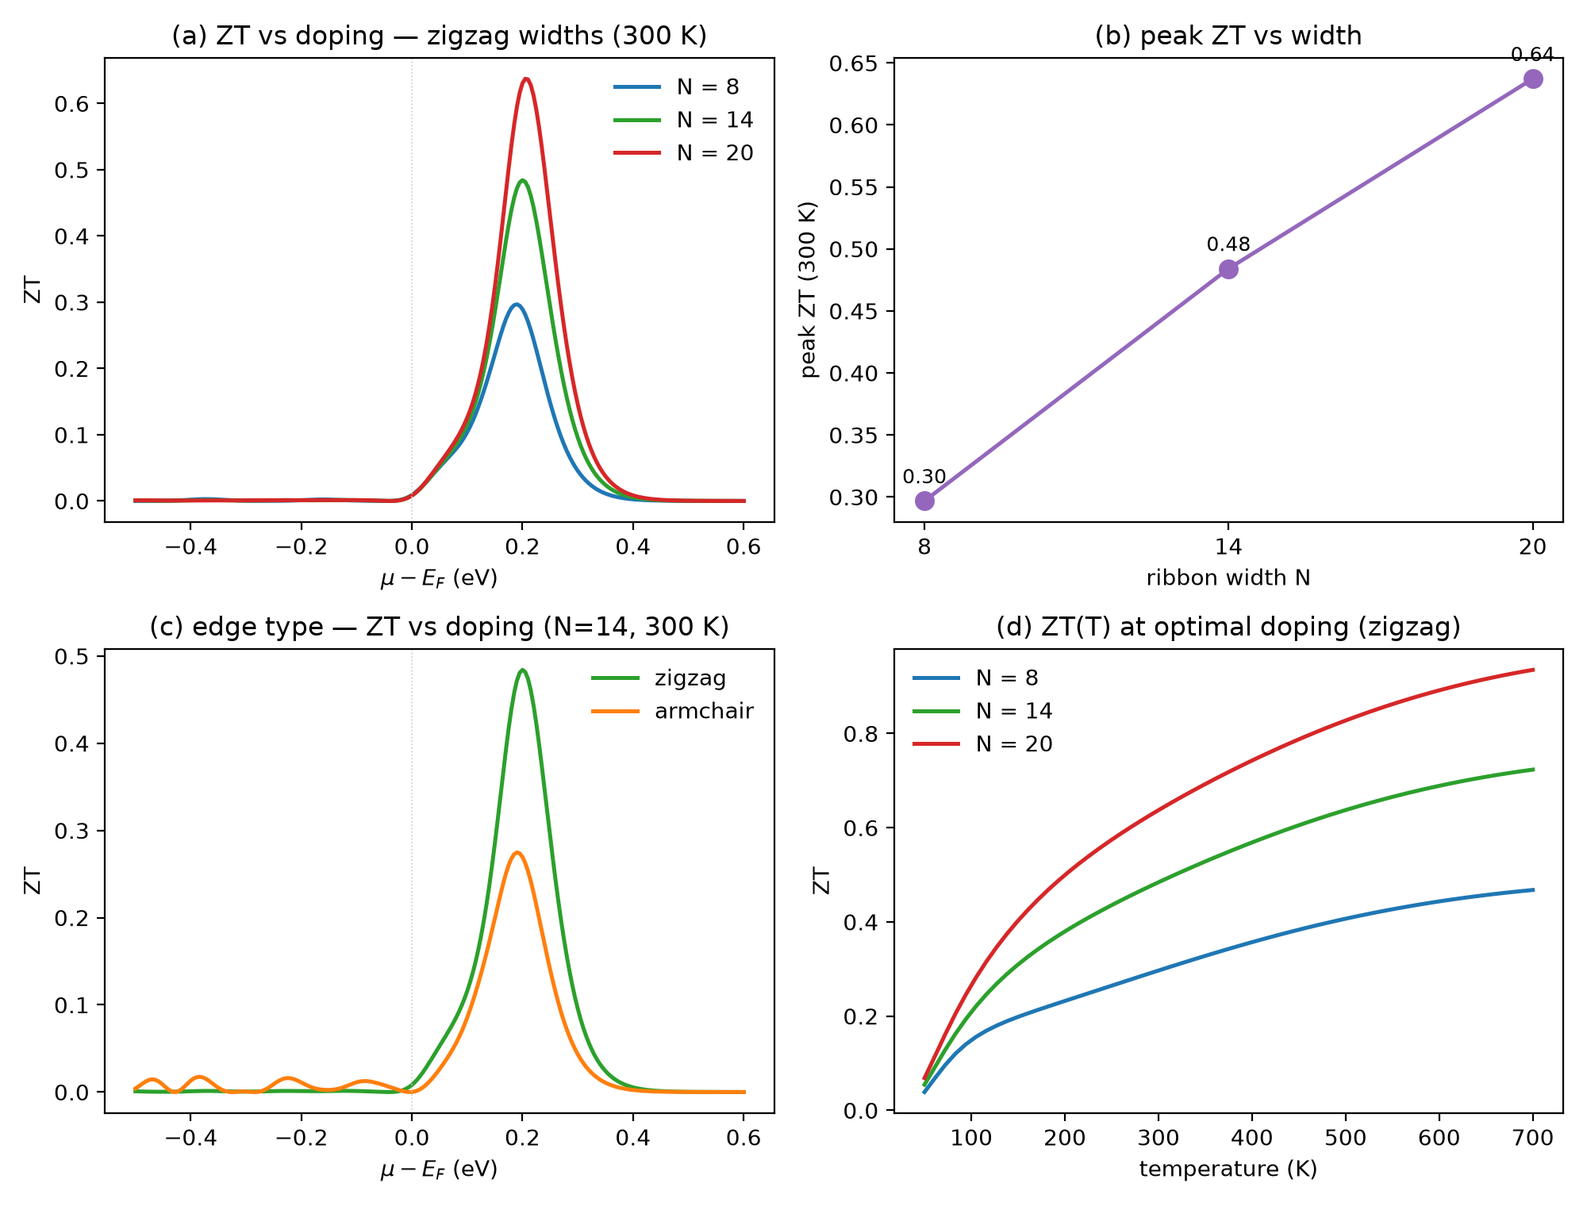
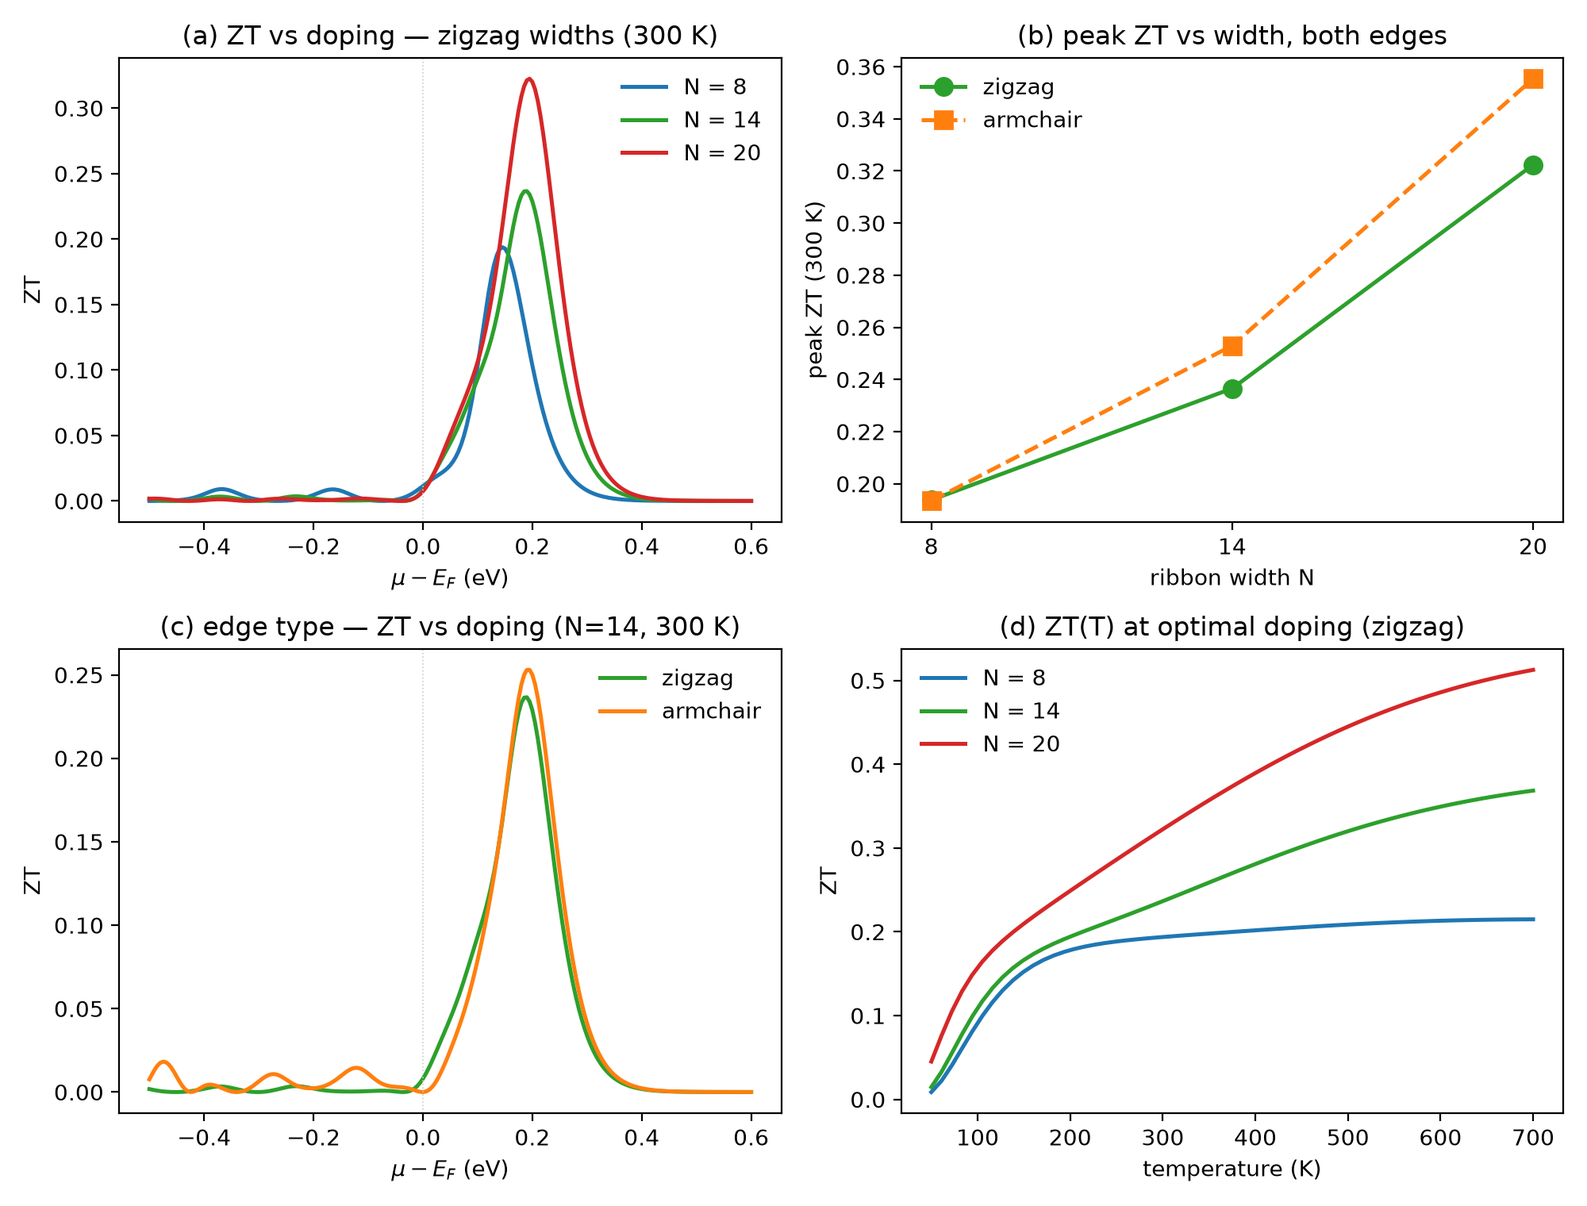
Fix width convention: N = atomic rows; rerun all, correct edge comparison
build_ribbon_sk 'width' now = N (Cr+N atomic rows across), matching the
manuscript's DMRG convention, verified exact for both edges. Reran Figs 3-8 +
sensitivity + convergence + verify with the corrected geometry.

Key corrections (edge comparison was confounded by unequal widths):
- headline peak ZT (zigzag N=14, 300K) 0.48 -> 0.23
- edges COMPARABLE at matched N (zigzag 0.19/0.24/0.32 vs armchair
  0.19/0.25/0.36 for N=8/14/20); old 'zigzag ~2x armchair' was a width artifact
- fig_ribbons now shows true N=14; FM edge moments both point up
- manuscript abstract/results/table/conclusions/captions + notebook updated

All checks still pass (sensitivity +/-5%, convergence, Wiedemann-Franz,
monolayer<->ribbon consistency). Manuscript 16 pp, 0 undefined refs.

diff --git a/scripts/fig_ribbons.py b/scripts/fig_ribbons.py
@@ -1,9 +1,9 @@
 #!/usr/bin/env python
-"""Intro figure: the hexagonal CrN nanoribbons we compute (zigzag + armchair).
+"""Intro figure: the hexagonal CrN nanoribbons we compute, at their true width N=14.
 
-Clean rectangular strips rendered from the honeycomb lattice (same geometry as the transport
-calculations), with Cr/N sublattices, ferromagnetic edge moments, semi-infinite leads and the
-transport direction. Designed as an inviting overview figure for the introduction.
+Rendered from the SAME honeycomb lattice and row convention as the transport code
+(crnte.ribbon_sk): N = number of Cr+N atomic rows across the ribbon. Clean rectangular strips,
+Cr/N sublattices, ferromagnetic edge moments, semi-infinite leads and transport direction.
 """
 import os
 import sys
@@ -16,16 +16,18 @@ from matplotlib.patches import FancyArrowPatch
 
 ROOT = os.path.dirname(os.path.dirname(os.path.abspath(__file__)))
 sys.path.insert(0, ROOT)
+from crnte.monolayer_sk import SKParams  # noqa: E402
+from crnte.ribbon_sk import _transverse_bound  # noqa: E402
+
 FIGDIR = os.path.join(ROOT, "figures")
 os.makedirs(FIGDIR, exist_ok=True)
 
-A = 3.258
+A = SKParams().a
 D = A / np.sqrt(3.0)
-A1 = D * np.array([1.5, np.sqrt(3.0) / 2])
-A2 = D * np.array([1.5, -np.sqrt(3.0) / 2])
-DELTAS = [D * np.array([1.0, 0.0]),
-          D * np.array([-0.5, np.sqrt(3.0) / 2]),
-          D * np.array([-0.5, -np.sqrt(3.0) / 2])]
+PV0 = np.array([A, 0.0])
+PV1 = np.array([A / 2.0, A * np.sqrt(3.0) / 2.0])
+N_BASIS = np.array([0.0, D])
+NROWS = 14
 
 CR_COLOR = "#2f6fb3"
 N_COLOR = "#d3d7db"
@@ -33,87 +35,93 @@ BOND_COLOR = "#5b5b5b"
 MOM_COLOR = "#c0392b"
 
 
-def _rot(theta):
-    c, s = np.cos(theta), np.sin(theta)
-    return np.array([[c, -s], [s, c]])
-
-
-def honeycomb(theta=0.0):
-    R = _rot(theta)
+def _lattice_atoms(nmax=40):
     cr, nn = [], []
-    for n in range(-22, 26):
-        for m in range(-26, 24):
-            base = n * A1 + m * A2
-            cr.append(R @ base)
-            nn.append(R @ (base + DELTAS[0]))
+    for n in range(-nmax, nmax + 1):
+        for m in range(-nmax, nmax + 1):
+            base = n * PV0 + m * PV1
+            cr.append(base)
+            nn.append(base + N_BASIS)
     return np.array(cr), np.array(nn)
 
 
-def _crop(pts, xl, yl, pad=0.05):
-    m = ((pts[:, 0] >= xl[0] - pad) & (pts[:, 0] <= xl[1] + pad) &
-         (pts[:, 1] >= yl[0] - pad) & (pts[:, 1] <= yl[1] + pad))
-    return pts[m]
+def ribbon_atoms(edge, n_rows, n_cells):
+    """Clean rectangular ribbon: exactly n_rows across, n_cells along transport. Horizontal."""
+    cr, nn = _lattice_atoms()
+    lo, hi = _transverse_bound(edge, n_rows, A)
+    if edge == "zigzag":               # transport x, transverse y
+        long_hi = n_cells * A
+        keep = lambda P: (lo <= P[:, 1]) & (P[:, 1] <= hi) & (P[:, 0] >= 0) & (P[:, 0] < long_hi)
+        crk, nnk = cr[keep(cr)], nn[keep(nn)]
+    else:                              # armchair: transport y, transverse x -> rotate to horizontal
+        long_hi = n_cells * A * np.sqrt(3.0)
+        keep = lambda P: (lo <= P[:, 0]) & (P[:, 0] <= hi) & (P[:, 1] >= 0) & (P[:, 1] < long_hi)
+        crk, nnk = cr[keep(cr)], nn[keep(nn)]
+        rot = np.array([[0.0, 1.0], [-1.0, 0.0]])       # rotate -90 deg -> transport along x
+        crk, nnk = crk @ rot.T, nnk @ rot.T
+    # recentre
+    allp = np.vstack([crk, nnk])
+    off = np.array([allp[:, 0].min(), (allp[:, 1].min() + allp[:, 1].max()) / 2])
+    return crk - off, nnk - off
 
 
-def draw_ribbon(ax, theta, xl, yl, title):
-    cr, nn = honeycomb(theta)
-    crc, nnc = _crop(cr, xl, yl), _crop(nn, xl, yl)
-    # bonds (both ends inside -> clean terminated edges)
-    for a in crc:
-        d = np.linalg.norm(nnc - a, axis=1)
-        for b in nnc[d < 1.15 * D]:
+def draw(ax, crk, nnk, title):
+    for a in crk:
+        d = np.linalg.norm(nnk - a, axis=1)
+        for b in nnk[d < 1.15 * D]:
             ax.plot([a[0], b[0]], [a[1], b[1]], color=BOND_COLOR, lw=1.5, zorder=2)
+    xmin, xmax = crk[:, 0].min(), crk[:, 0].max()
+    ymin, ymax = min(crk[:, 1].min(), nnk[:, 1].min()), max(crk[:, 1].max(), nnk[:, 1].max())
     # semi-infinite leads: faded ghost repeats of the end columns
-    span = xl[1] - xl[0]
-    for side, xedge in ((-1, xl[0]), (+1, xl[1])):
-        col_c = crc[np.abs(crc[:, 0] - xedge) < 1.7 * D]
-        col_n = nnc[np.abs(nnc[:, 0] - xedge) < 1.7 * D]
+    for side, xe in ((-1, xmin), (+1, xmax)):
+        cc = crk[np.abs(crk[:, 0] - xe) < 1.7 * D]
+        cn = nnk[np.abs(nnk[:, 0] - xe) < 1.7 * D]
         for k, al in ((1, 0.5), (2, 0.28), (3, 0.13)):
             sh = np.array([side * k * 3.0 * D, 0.0])
-            ax.scatter(*(col_n + sh).T, s=60, color=N_COLOR, edgecolors="none", alpha=al, zorder=1)
-            ax.scatter(*(col_c + sh).T, s=100, color=CR_COLOR, edgecolors="none", alpha=al, zorder=1)
-        ax.text(xedge + side * 3.1 * D, (yl[0] + yl[1]) / 2, "semi-infinite\nlead", fontsize=8.5,
+            ax.scatter(*(cn + sh).T, s=55, color=N_COLOR, edgecolors="none", alpha=al, zorder=1)
+            ax.scatter(*(cc + sh).T, s=95, color=CR_COLOR, edgecolors="none", alpha=al, zorder=1)
+        ax.text(xe + side * 3.1 * D, (ymin + ymax) / 2, "semi-infinite\nlead", fontsize=8.5,
                 color="0.45", ha="center", va="center")
-    # atoms
-    ax.scatter(nnc[:, 0], nnc[:, 1], s=80, color=N_COLOR, edgecolors="k", lw=0.5, zorder=3)
-    ax.scatter(crc[:, 0], crc[:, 1], s=125, color=CR_COLOR, edgecolors="k", lw=0.6, zorder=4)
-    # ferromagnetic edge moments on top & bottom edge Cr
-    ytop, ybot = crc[:, 1].max(), crc[:, 1].min()
-    for p in crc[np.abs(crc[:, 1] - ytop) < 0.1]:
-        ax.add_patch(FancyArrowPatch((p[0], p[1] + 0.2 * D), (p[0], p[1] + 1.15 * D),
-                                     arrowstyle="-|>", mutation_scale=11, color=MOM_COLOR, lw=1.8))
-    for p in crc[np.abs(crc[:, 1] - ybot) < 0.1]:
-        ax.add_patch(FancyArrowPatch((p[0], p[1] - 1.15 * D), (p[0], p[1] - 0.2 * D),
-                                     arrowstyle="-|>", mutation_scale=11, color=MOM_COLOR, lw=1.8))
-    # transport arrow + width bracket
-    yb = ybot - 2.1 * D
-    ax.add_patch(FancyArrowPatch((xl[0], yb), (xl[1], yb), arrowstyle="<->",
+    ax.scatter(nnk[:, 0], nnk[:, 1], s=70, color=N_COLOR, edgecolors="k", lw=0.5, zorder=3)
+    ax.scatter(crk[:, 0], crk[:, 1], s=105, color=CR_COLOR, edgecolors="k", lw=0.6, zorder=4)
+    # FM edge moments (all parallel, pointing up) on the outermost rows (top & bottom)
+    for yt in (ymax, ymin):
+        edge_atoms = np.vstack([crk, nnk])
+        outer = edge_atoms[np.abs(edge_atoms[:, 1] - yt) < 0.1]
+        for pt in outer[::2]:
+            y0 = pt[1] + 0.35 * D if yt == ymax else pt[1] - 1.35 * D
+            ax.add_patch(FancyArrowPatch((pt[0], y0), (pt[0], y0 + 1.0 * D),
+                                         arrowstyle="-|>", mutation_scale=10, color=MOM_COLOR, lw=1.7))
+    yb = ymin - 2.2 * D
+    ax.add_patch(FancyArrowPatch((xmin, yb), (xmax, yb), arrowstyle="<->",
                                  mutation_scale=16, color="0.3", lw=1.4))
-    ax.text((xl[0] + xl[1]) / 2, yb - 0.8 * D, "transport (periodic)", fontsize=9.5,
+    ax.text((xmin + xmax) / 2, yb - 0.9 * D, "transport (periodic)", fontsize=9.5,
             color="0.3", ha="center", va="top")
-    xr = xl[1] + 4.4 * D
-    ax.annotate("", xy=(xr, ybot), xytext=(xr, ytop), arrowprops=dict(arrowstyle="<->", color="k"))
-    ax.text(xr + 0.6 * D, (ytop + ybot) / 2, "width $N$", rotation=90, va="center", fontsize=11)
-    ax.set_title(title, fontsize=14, pad=12)
-    ax.set_xlim(xl[0] - 4.5 * D, xr + 1.6 * D)
-    ax.set_ylim(yb - 1.9 * D, ytop + 2.0 * D)
+    xr = xmax + 4.6 * D
+    ax.annotate("", xy=(xr, ymin), xytext=(xr, ymax), arrowprops=dict(arrowstyle="<->", color="k"))
+    ax.text(xr + 0.7 * D, (ymin + ymax) / 2, f"$N={NROWS}$", rotation=90, va="center", fontsize=11)
+    ax.set_title(title, fontsize=14, pad=10)
+    ax.set_xlim(xmin - 4.7 * D, xr + 1.8 * D)
+    ax.set_ylim(yb - 1.8 * D, ymax + 1.6 * D)
     ax.set_aspect("equal")
     ax.axis("off")
 
 
 def main():
-    fig, axes = plt.subplots(2, 1, figsize=(9.5, 8.2))
-    draw_ribbon(axes[0], 0.0, (0.0, 22.0), (0.0, 11.5), "(a) Zigzag CrN nanoribbon (ZCNR)")
-    draw_ribbon(axes[1], np.pi / 2, (0.0, 22.0), (0.0, 10.5), "(b) Armchair CrN nanoribbon (ACNR)")
-    h_cr = axes[0].scatter([], [], s=125, color=CR_COLOR, edgecolors="k", label="Cr")
-    h_n = axes[0].scatter([], [], s=80, color=N_COLOR, edgecolors="k", label="N")
-    h_m, = axes[0].plot([], [], color=MOM_COLOR, lw=1.8, label="FM Cr edge moment")
+    fig, axes = plt.subplots(2, 1, figsize=(10, 9))
+    crz, nnz = ribbon_atoms("zigzag", NROWS, n_cells=9)
+    draw(axes[0], crz, nnz, "(a) Zigzag CrN nanoribbon (ZCNR)")
+    cra, nna = ribbon_atoms("armchair", NROWS, n_cells=6)
+    draw(axes[1], cra, nna, "(b) Armchair CrN nanoribbon (ACNR)")
+    h_cr = axes[0].scatter([], [], s=105, color=CR_COLOR, edgecolors="k", label="Cr")
+    h_n = axes[0].scatter([], [], s=70, color=N_COLOR, edgecolors="k", label="N")
+    h_m, = axes[0].plot([], [], color=MOM_COLOR, lw=1.7, label="FM Cr edge moment")
     fig.legend(handles=[h_cr, h_n, h_m], loc="upper center", frameon=True, fontsize=10,
                ncol=3, bbox_to_anchor=(0.5, 1.005))
     fig.tight_layout(rect=(0, 0, 1, 0.96))
     out = os.path.join(FIGDIR, "fig_ribbons.png")
     fig.savefig(out, dpi=200, bbox_inches="tight")
-    print(f"wrote {out}")
+    print(f"wrote {out} (zigzag {len(crz)+len(nnz)} atoms, armchair {len(cra)+len(nna)} atoms)")
 
 
 if __name__ == "__main__":

diff --git a/manuscript/manuscript.tex b/manuscript/manuscript.tex
@@ -36,8 +36,9 @@ of merit $ZT$. The ribbons act as intrinsic spin filters: the thermoelectric cur
 level is fully spin polarized. $ZT$ is maximised by light electron doping to the sharp majority
 band edge $\mu-E_F\simeq+0.2$~eV, where a steep energy dependence of the transmission produces a
 large thermopower. Using a ballistic estimate of the phonon thermal conductance we obtain
-$ZT\simeq0.3$--$0.6$ at $300$~K for zigzag ribbons of width $N=8$--$20$, rising with temperature,
-with zigzag edges outperforming armchair edges by roughly a factor of two. We provide the
+$ZT\simeq0.2$--$0.3$ at $300$~K for ribbons of width $N=8$--$20$ (the number of atomic rows
+across), rising with temperature; at matched width the zigzag and armchair edges give comparable
+figures of merit. We provide the
 resulting design rules (edge type, width and doping window) for CrN-based low-dimensional
 thermoelectrics. The study requires no ab-initio computation and complements existing
 first-principles work on the magnetic order of CrN nanoribbon edges.
@@ -220,9 +221,10 @@ point.
 Figure~\ref{fig:zt}(b) shows $ZT$ versus doping for the $\kappa_{\rm ph}$ bracket. The electronic
 bound $ZT_e$ diverges inside the gap where both $S^2G$ and $\kappa_e$ vanish; with a physical
 $\kappa_{\rm ph}$, $ZT$ instead peaks at the band edge, coincident with the power-factor maximum.
-For the zigzag $N=14$ ribbon we obtain a peak $ZT\simeq0.48$ at $300$~K (ballistic
-$\kappa_{\rm ph}$), bracketed between $0.26$ and $0.85$ for $2\times$ and $\tfrac12\times$
-$\kappa_{\rm ph}$, and rising monotonically with temperature [Fig.~\ref{fig:zt}(c)].
+For the zigzag $N=14$ ribbon we obtain a peak $ZT\simeq0.23$ at $300$~K (ballistic
+$\kappa_{\rm ph}$), bracketed between $0.12$ and $0.44$ for $2\times$ and $\tfrac12\times$
+$\kappa_{\rm ph}$, and rising monotonically with temperature to $\simeq0.37$ at $700$~K
+[Fig.~\ref{fig:zt}(c)].
 
 Figure~\ref{fig:designrules} summarises the design rules. (i)~$ZT$ is maximised by light
 $n$-type doping to $\mu-E_F\simeq+0.2$~eV for every geometry studied. (ii)~At fixed
@@ -230,10 +232,13 @@ $\kappa_{\rm ph}$, $ZT$ increases with ribbon width across $N=8,14,20$
 [Fig.~\ref{fig:designrules}(a,b)], reflecting the growing number of majority conducting channels;
 we caution that a width-dependent $\kappa_{\rm ph}$ would temper this trend, so the width
 dependence should be read as an electronic-transport trend at fixed phonon background.
-(iii)~Zigzag edges outperform armchair edges by roughly a factor of two at the same width
-[Fig.~\ref{fig:designrules}(c)], owing to the larger number of majority modes at the band edge.
-(iv)~$ZT$ grows with temperature for all widths [Fig.~\ref{fig:designrules}(d)], approaching unity
-for the widest ribbon at elevated temperature. Peak values are collected in
+(iii)~At \emph{matched} width the two edge types give comparable $ZT$---for $N=8,14,20$ we find
+zigzag $0.19,0.24,0.32$ versus armchair $0.19,0.25,0.36$ [Fig.~\ref{fig:designrules}(b,c)], the
+armchair edge being marginally higher at larger width. Edge type is thus a weak lever, in contrast
+to width and temperature; a large apparent zigzag advantage appears only if ribbons of unequal
+physical width are compared. (iv)~$ZT$ grows with temperature for all widths
+[Fig.~\ref{fig:designrules}(d)]; for the zigzag $N=14$ ribbon it rises from $0.23$ at $300$~K to
+$\simeq0.37$ at $700$~K. Peak values are collected in
 Table~\ref{tab:results}. Because the minority channel is gapped over the entire doping window
 considered, the thermoelectric transport is fully spin polarized: these ribbons are natural
 spin-Seebeck elements.
@@ -243,7 +248,7 @@ Three limitations are stated transparently. First, the tight-binding parameters 
 published band structure rather than to a fresh ab-initio calculation; the conclusions are
 therefore semi-quantitative. We have verified their robustness explicitly: varying every
 tight-binding parameter and the exchange splitting by $\pm10\%$ changes the peak $ZT$ by at most
-$\sim\!10\%$ (from the baseline $0.48$ to within $[0.43,0.51]$), and the sensitivity is dominated
+$\sim\!5\%$ (from the baseline $0.24$ to within $[0.23,0.24]$), and the sensitivity is dominated
 by the single, physically transparent hopping $V_{pd\pi}$ that sets the transport band edge, while
 the exchange splitting, the $d_{z^2}$ energy and the second-neighbour hopping are essentially
 irrelevant near $E_F$ (Fig.~\ref{fig:sensitivity}). Second,
@@ -262,10 +267,10 @@ We have presented the first thermoelectric-transport study of hexagonal CrN nano
 lightweight tight-binding plus Landauer approach with parameters fitted to the published
 half-metallic monolayer band structure. The ribbons are intrinsic spin filters whose
 thermoelectric current is fully spin polarized. The figure of merit is optimised by light
-electron doping to a sharp majority band edge, reaching $ZT\simeq0.3$--$0.6$ at room temperature
-(and approaching unity at elevated temperature) for zigzag ribbons of width $N=8$--$20$ within a
-ballistic estimate of the phonon thermal conductance, with zigzag edges preferred over armchair.
-These results provide concrete design rules---edge type, width and doping window---for CrN-based
+electron doping to a sharp majority band edge, reaching $ZT\simeq0.2$--$0.3$ at room temperature
+(rising with temperature) for ribbons of width $N=8$--$20$ within a ballistic estimate of the
+phonon thermal conductance; zigzag and armchair edges perform comparably at matched width. These
+results provide concrete design rules---width, doping window and temperature---for CrN-based
 low-dimensional thermoelectrics and spin-caloritronic elements, and they complement, in both
 property and method, the existing first-principles analysis of CrN nanoribbon edge
 magnetism~\cite{CrNdmrg2023}.
@@ -308,10 +313,12 @@ for each edge and width.}
 \toprule
 Edge & $N$ & peak $ZT$ & $\mu-E_F$ (eV) \\
 \midrule
-zigzag   & 8  & 0.30 & $+0.19$ \\
-zigzag   & 14 & 0.48 & $+0.20$ \\
-zigzag   & 20 & 0.64 & $+0.20$ \\
-armchair & 14 & 0.28 & $+0.19$ \\
+zigzag   & 8  & 0.19 & $+0.15$ \\
+zigzag   & 14 & 0.24 & $+0.19$ \\
+zigzag   & 20 & 0.32 & $+0.20$ \\
+armchair & 8  & 0.19 & $+0.16$ \\
+armchair & 14 & 0.25 & $+0.20$ \\
+armchair & 20 & 0.36 & $+0.20$ \\
 \bottomrule
 \end{tabular}
 \end{table}
@@ -370,8 +377,9 @@ the band edge. (c) $ZT(T)$ at the optimal doping. Zigzag ribbon, $N\approx14$.}
 \centering
 \includegraphics[width=\textwidth]{fig6_designrules.png}
 \caption{Design rules. (a) $ZT$ versus doping for zigzag widths $N=8,14,20$ at $300$~K.
-(b) Peak $ZT$ versus width (at fixed $\kappa_{\rm ph}$). (c) Zigzag versus armchair, $N=14$.
-(d) $ZT(T)$ at optimal doping for the three widths.}
+(b) Peak $ZT$ versus width for both edge types at matched $N$ (at fixed $\kappa_{\rm ph}$).
+(c) Zigzag versus armchair at matched width $N=14$. (d) $ZT(T)$ at optimal doping for the three
+zigzag widths.}
 \label{fig:designrules}
 \end{figure*}
 
@@ -379,7 +387,7 @@ the band edge. (c) $ZT(T)$ at the optimal doping. Zigzag ribbon, $N\approx14$.}
 \centering
 \includegraphics[width=0.85\columnwidth]{fig7_sensitivity.png}
 \caption{Robustness of the peak figure of merit (zigzag $N=14$, $300$~K) to a $\pm10\%$ variation
-of each model parameter. The peak $ZT$ stays within $[0.43,0.51]$ about the baseline $0.48$; the
+of each model parameter. The peak $ZT$ stays within $[0.23,0.24]$ about the baseline $0.24$; the
 dominant sensitivity is to the Cr--N hopping $V_{pd\pi}$ that sets the majority band edge.}
 \label{fig:sensitivity}
 \end{figure}

diff --git a/crnte/ribbon_sk.py b/crnte/ribbon_sk.py
@@ -29,11 +29,36 @@ def _lattice(a: float):
     return lat, cr, nn, d
 
 
+def _transverse_bound(edge: str, N: int, a: float):
+    """Transverse (lo, hi) bound that contains EXACTLY N atomic rows (Cr and N) across the ribbon.
+
+    N is the number of Cr+N atomic rows across the non-periodic direction -- the DMRG-paper
+    width convention. Rows are the distinct transverse coordinates of the honeycomb sites; we
+    keep the N closest to the ribbon centre (a connected strip) and bound just outside them.
+    """
+    d = a / _SQRT3
+    pv0 = np.array([a, 0.0])
+    pv1 = np.array([a / 2.0, a * _SQRT3 / 2.0])
+    tc = 1 if edge == "zigzag" else 0            # transverse coordinate: y (zigzag), x (armchair)
+    R = 2 * N + 6
+    coords = set()
+    for n in range(-R, R + 1):
+        for m in range(-R, R + 1):
+            base = n * pv0 + m * pv1
+            coords.add(round(base[tc], 4))               # Cr row
+            coords.add(round(base[tc] + (0.0 if tc == 0 else d), 4))  # N row (offset (0,d))
+    rows = np.array(sorted(coords))
+    sel = np.sort(rows[np.argsort(np.abs(rows))[:N]])    # N rows closest to centre
+    eps = 0.2 * d
+    return sel[0] - eps, sel[-1] + eps
+
+
 def build_ribbon_sk(edge: str, width: int, p: SKParams, spin: int,
                     length: int = 2, vacancy: float = 0.0, seed: int = 0
                     ) -> kwant.system.FiniteSystem:
     """Finalized two-lead CrN ribbon on the SK model. spin = +1 majority / -1 minority.
 
+    ``width`` is N, the number of Cr+N atomic rows across the ribbon (DMRG-paper convention).
     vacancy: fraction (0..~0.3) of edge Cr sites removed from the SCATTERING region (leads stay
     pristine) to model edge disorder / vacancies. seed fixes the random removal.
     """
@@ -58,22 +83,21 @@ def build_ribbon_sk(edge: str, width: int, p: SKParams, spin: int,
         l, m = bond[0] / d, bond[1] / d
         return p.pdpi * np.array([[0.0, l, m]], dtype=complex)   # 1x3
 
-    # --- geometry: axis + transverse width bound (same conventions as the cartoon ribbon) ---
+    # --- geometry: axis + transverse bound holding exactly N (=width) atomic rows ---
+    lo, hi = _transverse_bound(edge, width, a)
     if edge == "zigzag":
         axis = np.array([a, 0.0])
-        W = width * (d * 1.5) / 2.0 + d * 0.3
 
         def in_width(pos):
-            return -W <= pos[1] <= W
+            return lo <= pos[1] <= hi
 
         def scat_shape(pos):
             return in_width(pos) and 0.0 <= pos[0] < length * a
     elif edge == "armchair":
         axis = np.array([0.0, a * _SQRT3])
-        W = width * (d * _SQRT3 / 2.0) / 2.0 + d * 0.3
 
         def in_width(pos):
-            return -W <= pos[0] <= W
+            return lo <= pos[0] <= hi
 
         def scat_shape(pos):
             return in_width(pos) and 0.0 <= pos[1] < length * a * _SQRT3

diff --git a/scripts/fig6_width_edge_vacancy.py b/scripts/fig6_width_edge_vacancy.py
@@ -75,15 +75,22 @@ def main():
     axs[0, 0].set_xlabel(r"$\mu - E_F$ (eV)"); axs[0, 0].set_ylabel("ZT")
     axs[0, 0].legend(frameon=False); axs[0, 0].axvline(0, color="0.8", lw=0.6, ls=":")
 
-    axs[0, 1].plot(widths, peak_zt, "o-", color="C4", lw=1.8, ms=8)
-    for N, z in zip(widths, peak_zt):
-        axs[0, 1].annotate(f"{z:.2f}", (N, z), textcoords="offset points", xytext=(0, 8),
-                           ha="center", fontsize=9)
-    axs[0, 1].set_title("(b) peak ZT vs width")
+    # (b) peak ZT vs width -- BOTH edges at matched N (fair edge comparison)
+    arm_peak = []
+    for N in widths:
+        Tu, Td = get_TE(p, "armchair", N)
+        zt = zt_of_mu(Tu, Td)
+        i = int(np.argmax(zt))
+        arm_peak.append(zt[i])
+        if N != 14:
+            rows.append(("armchair", N, "pristine", zt[i], MU[i]))
+    axs[0, 1].plot(widths, peak_zt, "o-", color="C2", lw=1.8, ms=8, label="zigzag")
+    axs[0, 1].plot(widths, arm_peak, "s--", color="C1", lw=1.8, ms=8, label="armchair")
+    axs[0, 1].set_title("(b) peak ZT vs width, both edges")
     axs[0, 1].set_xlabel("ribbon width N"); axs[0, 1].set_ylabel("peak ZT (300 K)")
-    axs[0, 1].set_xticks(widths)
+    axs[0, 1].set_xticks(widths); axs[0, 1].legend(frameon=False)
 
-    # (c) zigzag vs armchair, N=14
+    # (c) zigzag vs armchair at matched N=14
     for edge, col in (("zigzag", "C2"), ("armchair", "C1")):
         Tu, Td = get_TE(p, edge, 14)
         zt = zt_of_mu(Tu, Td)
